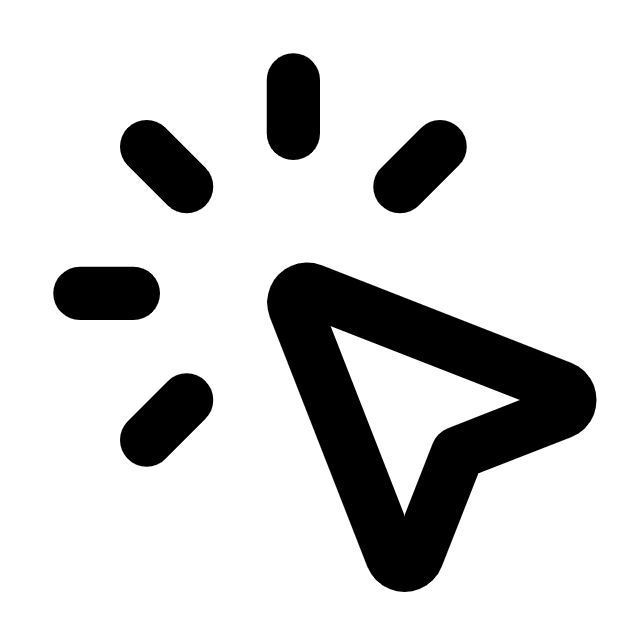
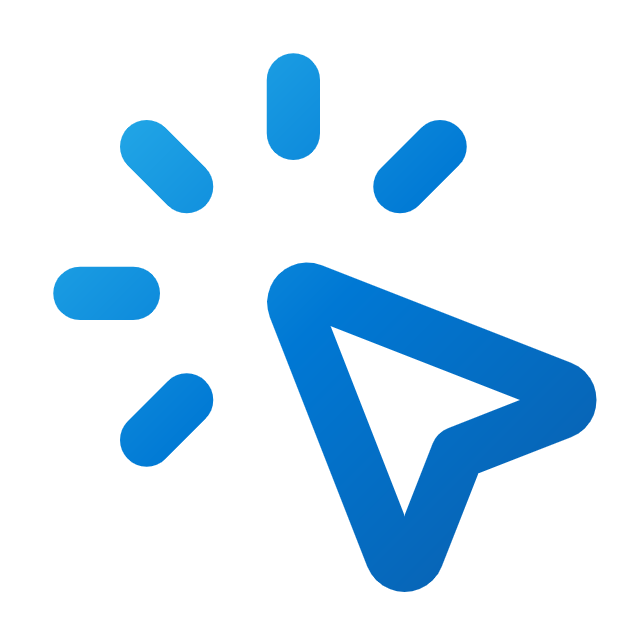
chore: 更新项目图标资源并重构图标生成脚本
替换了原有的十字准星占位图标，使用官方svg品牌图标作为源文件，重构了图标生成脚本以直接使用现有的图标文件而非重新生成占位图标

diff --git a/packaging/make_icon.py b/packaging/make_icon.py
@@ -1,60 +1,23 @@
-"""Generate packaging/pixelmimic.ico — a simple dark crosshair icon.
+"""Generate packaging/pixelmimic.ico from the brand artwork in icon/.
 
-The repo has no artwork; this produces a clean placeholder that can be
-replaced by a hand-designed icon of the same filename at any time.
+Reads icon/pixelmimic.png (same artwork as icon/pixelmimic.svg) and writes
+the multi-resolution ICO used by the PyInstaller spec and the Inno Setup
+installer.
 """
 
 import os
 
-from PIL import Image, ImageDraw
+from PIL import Image
 
-SIZE = 256
-BG = (11, 15, 25, 255)        # app background #0b0f19
-RING = (99, 102, 241, 255)    # indigo #6366f1
-DOT = (34, 211, 238, 255)     # cyan #22d3ee
-TICK = (226, 232, 240, 255)   # light #e2e8f0
-
-
-def build_master() -> Image.Image:
-    img = Image.new("RGBA", (SIZE, SIZE), (0, 0, 0, 0))
-    d = ImageDraw.Draw(img)
-
-    # Rounded dark tile
-    d.rounded_rectangle([10, 10, SIZE - 10, SIZE - 10], radius=56, fill=BG)
-
-    cx = cy = SIZE // 2
-    r_ring = 74
-    w_ring = 12
-
-    # Crosshair ring
-    d.ellipse(
-        [cx - r_ring, cy - r_ring, cx + r_ring, cy + r_ring],
-        outline=RING,
-        width=w_ring,
-    )
-
-    # Tick marks at 0/90/180/270 degrees, outside the ring
-    r_out = r_ring + 22
-    for dx, dy in ((1, 0), (-1, 0), (0, 1), (0, -1)):
-        x1 = cx + dx * (r_ring + w_ring)
-        y1 = cy + dy * (r_ring + w_ring)
-        x2 = cx + dx * r_out
-        y2 = cy + dy * r_out
-        d.line([x1, y1, x2, y2], fill=TICK, width=w_ring)
-
-    # Center dot
-    r_dot = 18
-    d.ellipse(
-        [cx - r_dot, cy - r_dot, cx + r_dot, cy + r_dot],
-        fill=DOT,
-    )
-    return img
+ICO_SIZES = [(16, 16), (24, 24), (32, 32), (48, 48), (64, 64), (128, 128), (256, 256)]
 
 
 def main() -> None:
+    root = os.path.dirname(os.path.dirname(os.path.abspath(__file__)))
+    src = os.path.join(root, "icon", "pixelmimic.png")
     out = os.path.join(os.path.dirname(os.path.abspath(__file__)), "pixelmimic.ico")
-    master = build_master()
-    master.save(out, format="ICO", sizes=[(16, 16), (24, 24), (32, 32), (48, 48), (64, 64), (128, 128), (256, 256)])
+    img = Image.open(src).convert("RGBA")
+    img.save(out, format="ICO", sizes=ICO_SIZES)
     print(f"icon written: {out}")
 
 
